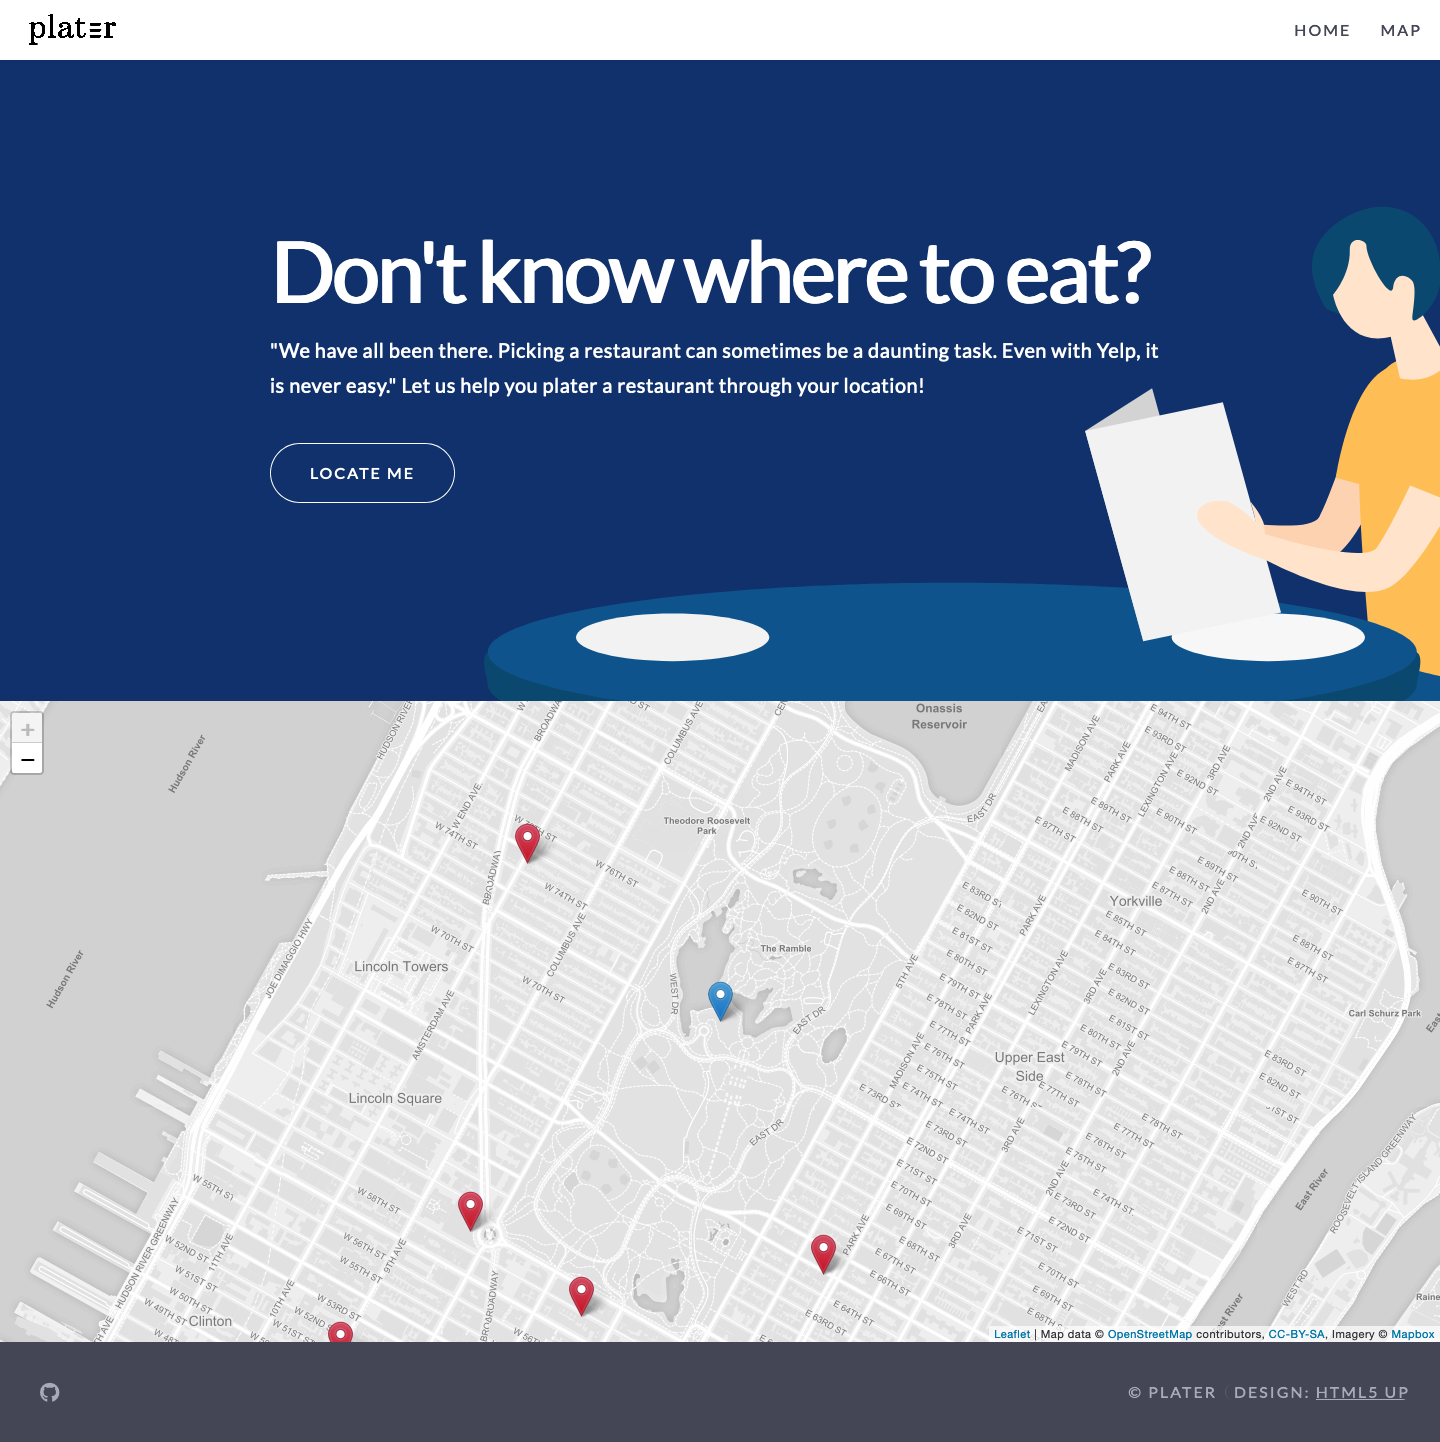
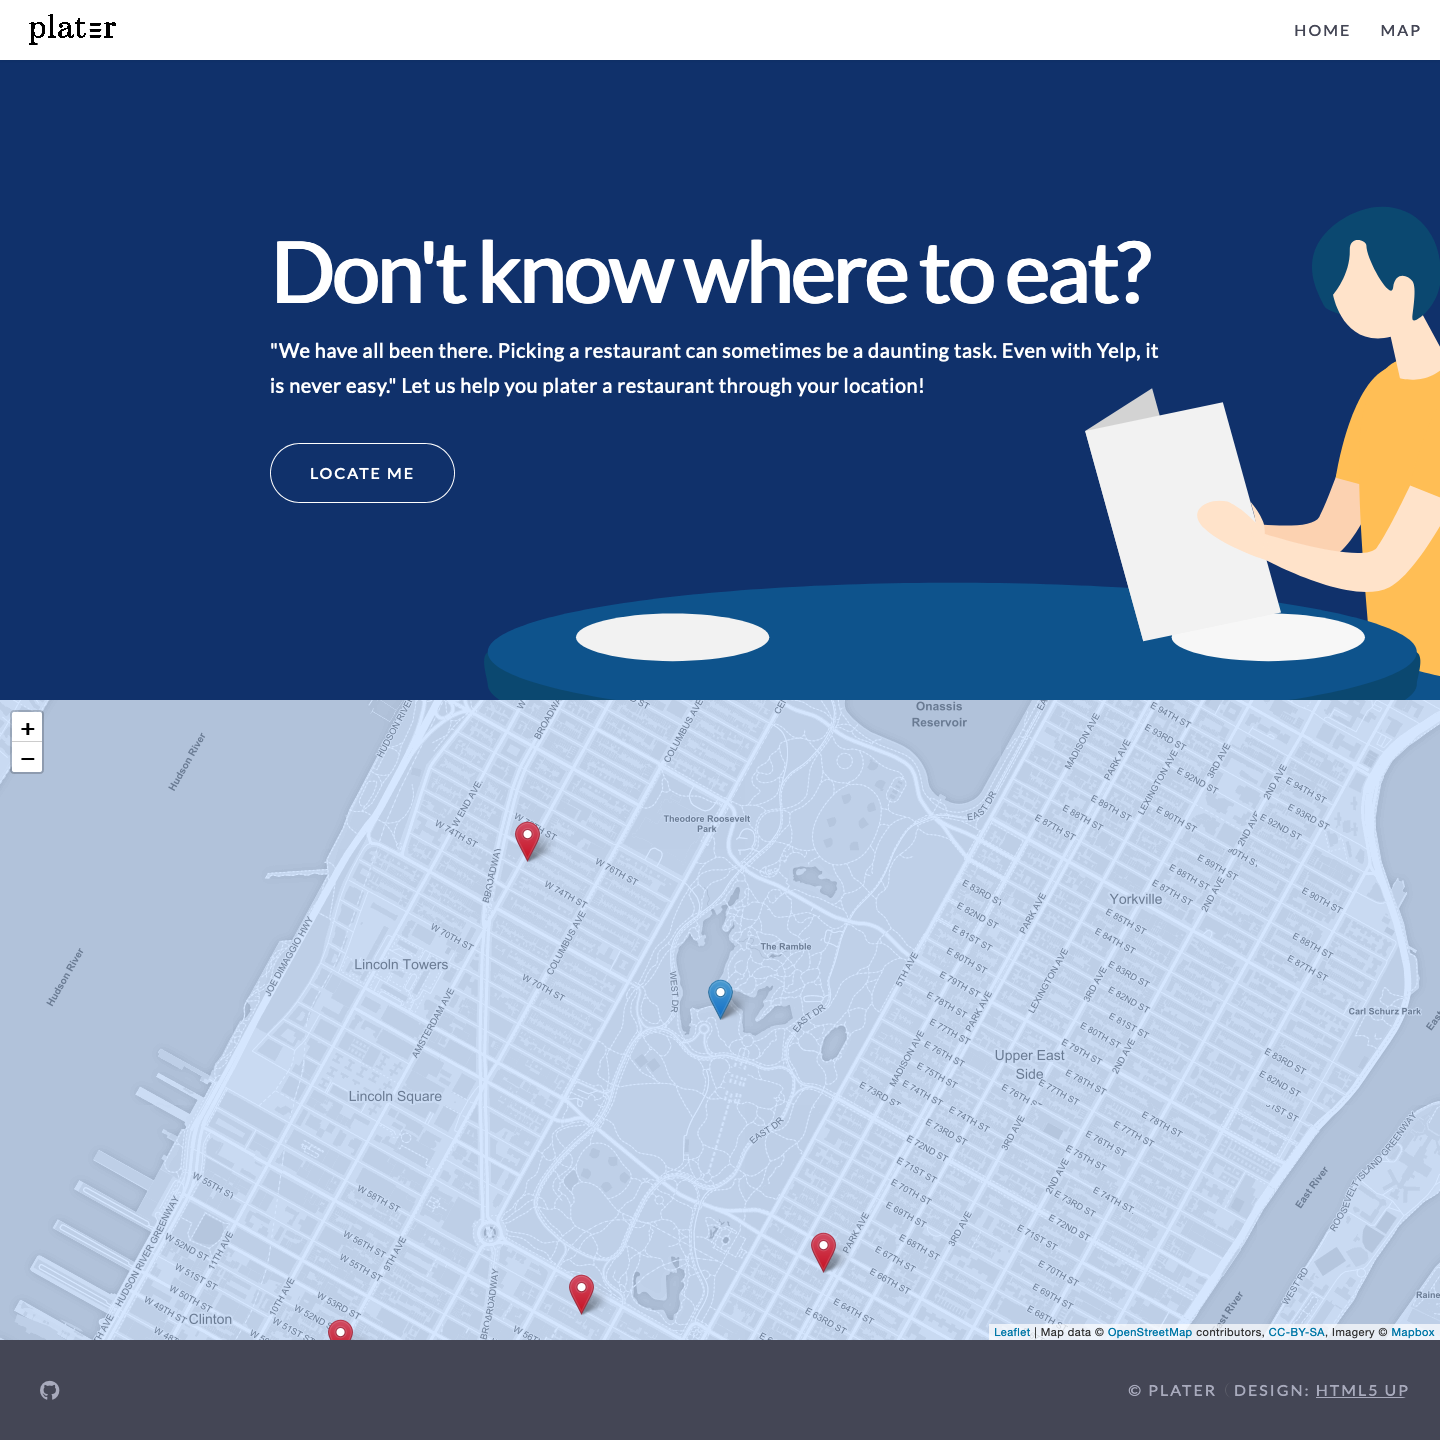
Map enables more zoom-ins and features a radius on map
product picture has been updated to relfect these changes

diff --git a/assets/js/map.js b/assets/js/map.js
@@ -1,3 +1,22 @@
+function haversine(lat1, lng1, lat2, lng2) {
+    var R = 6371000; // Radius of the earth in m
+    var dLat = (lat2-lat1).toRad();  // Javascript functions in radians
+    var dLon = (lng2-lng1).toRad(); 
+    var a = Math.sin(dLat/2) * Math.sin(dLat/2) +
+            Math.cos(lat1.toRad()) * Math.cos(lat2.toRad()) * 
+            Math.sin(dLon/2) * Math.sin(dLon/2); 
+    var c = 2 * Math.atan2(Math.sqrt(a), Math.sqrt(1-a)); 
+    var d = R * c; // Distance in m
+    return d;
+}
+  
+/** Converts numeric degrees to radians */
+if (typeof(Number.prototype.toRad) === "undefined") {
+    Number.prototype.toRad = function() {
+        return this * Math.PI / 180;
+    }
+}
+
 const YELP = '7zJt$*fZBj!7ZywLrCXaB&&q36f!5eN!LTn3&99@B3nfjMdb@Mc4@k*KZ*$8CeJwfZA29EjVyqB68XuQG&Jh6Js2TGcBm4S!K5TtxFjn4PzF6Z&tVhA%NWj^!zo34jiK@#Lz9NVF$*dy67eaqWSzdhe96wggjtw@znfC$EH3$uV2vS2H7#JBHHNt&%xrkBZTGg%3MMpM3!zNevK%*ejQac#JxnV@P87BwA9c5bO*u2pMzcvo&&L7&%%EPp3TuahU2hRS#Lh*nk5633H2_cHheL62V#EA2iggw*ef&fq4*Tc9*xLamx4yiBXWPzxyRKSWN!CW&QJit&%Ha9Dl763ZspHDWZc#xeU2#jAZG*LNx7z69bpxFmswyLtA483XtX!m9J@6SXgUf2jr2zzz3zSJ5GXg9@DwxSAf2L$Qtjo8%!yG$c7$jLUUhXxr1!%KhUr!Hy!S3RXNxPndax2XGfdQpmuFD4A&Uv@kfk3f!6R%bsXqECb!Xm@2Nxtc5mWLec%ZPKuRZfjy5*Gi-R^UDDGaVPud&iGxr3Q^ez$#chUtNmF5swGwAK$a$%B$tYV5%Yi%6hTQxqM9obXz%dq5mWJfn!3PbKkZX!UQH7B$s9u@R9PF#TUEJhUN5WxY2B&go#JkVH7ap%jrwaR5s2zb!k^fi^TJwj7$NcsS&anq$qcoUduR$VgmW4KwZU%2d3iZonqUWL79FushxxgD&cHz^#i5FQPBgs@T233#7NH2qB69JmaoEaHEsi*tyevq^r4#9qy7Kg3Q2myPPnA&jKi&*D7Nvrz6FJbezOx&G7iMumSq^ivacTZ*4f68sPuwyQR!waVpau9GA#u3REJsQ64geqBYdVV!pK!fuAh#g4yxzeYGmGR#n*Ga%8SRf%7p7Vqx6yY2cgPT9$x6wDm6wFY2Aa*2pyP%aU4HmB6cPBs&ixTVNyAL!q2$ZxocnG@4C&c9!Dqi*F@QGqxH%zW5gLbN*!NY7D$Znrn^r^gW$uS2K8CYgcqc!oxbk8Xv^$UehAjj#HjeVuLW0%dRw&#5FB%RPsRVTRW2j_a^J*RfUY7ymKp5fknMLDKZKY%UaUAePL9J#XnKAK@Dq9KKFeG32JnbzhJ$cE*VU$dM&QgB79vw*@L2Uv5kB3^N3LxtfCXx2L%jy&k2nZK%4qX@QFk6PgkRdQRqaEBpo9$qRNkpczr9roc&MS3ar^y*DGYVt38uedhNZQh^^RXCTmL4haE&x%or2Hx5FZe6ZYw$cJ8#F@aq8&d3PG#jLpD3aGnwW5%TQ%hw^X6Rto39@ygQ!Kc39SwE@W4mqik9LpHr!rXU&B$84NjNHEhSxc7cYwax5fu!2zPEK8fInSs*rrh4RqNW!7fU3KBaC*5H$PQUEBbEkg3diZh#kUkB43F^wfbmhP7L4pA&U&xM^8nzcHfT4tWPgHj35v&2@zLq&i@XBdx#!rdwnUW9fMK25Z8tTxLRMit84%e^5B9&Qf9PbU!3t#%^r2iSCPpYC*UA8nq48apzd%#gj&Gh@w8#Dqy^YHz2isF!xvFM9X$!N2EfmS*ATiSSdsK%JO8Q@q86hi!^cLv^X4Xmn&OCMN^QhaSUptVH&j92&nMKYT!GzKjx^Ejyj!DAzZ32TJe&3u3GH@8iPe*veYcTjMNb6JCx4!*GULx9%z*g46s$cm%ej35xSVKr&U%zBxc_a%EuzYvuw7pQqC8cUx$!6RyQ2*7AAHL!pExmSnP%6iUgAB67NJ#^NeC&#J2RZPfv!*q8sZ8$rsK*AMz$3qh9juzkiLR*5Si37g8HBM&&u4o8WMM@R5bq6&qsiSjkb3B^5@8at@i%6*K7Nj@FJabg8eGLivG6r*wWma7vdKkKinUtbH@b2K5QVAG3NgXMJ#j$oWcCG!gxeK7&44gX5gWWh5K4RNr2&!&LEy^8xakFMft@qhyef^7wjs*6EggUDRLY@FZ@A8$r*9D4M^pgpq5vUBPuoxmNKL$LhfS2dPXQ4qDtP#8eZjmdMGbnyhnW$Xm97UwJNrTD!2uyHHpTk7@kFWfsq#@kbouago3G53xzrrkF@NDGz%HE25r89CFQ7@7a$RJ3FV5%DfwYXboU3mkGP$FC%9Kwfz5x8T$0MYfYnjze2Bw6GK&v^gkvlM55oHnsz5$b@kYY#JzNfwCof6k9@DVajzSt#RpK^x4s8PDNFJbv*aZ*z4c6!#8na@m2fchdgB4n9*nRnynMEoAsp8hhfZod2xJH^qg@WxFN*ALL%ZTgt9@4xmRKuinodV79@$RgFZf&XY3PzN*SbW$tAYhWK^u%cQ97@R!qKDPKQ84dDYeDp9HFqk24@DP%8Rw4j2SWspdiE!jHNAzeYH6DLdY#w$*!dxfjFsjze5#NNBsV!CdVp54Tn%hfv5X*#iF@*RAHEE@zV#cs7MqaMfFtDHE@qSnh9oFqX%rS6CPnWbJuZ@t9izM3M591*u!AW3j5QKjtULFNx*uRl!GQmckW@8%3Nx5rhJXN!YA#7&v^YQTpc$kb$n#d9MwMNDo5TuAZkp#%vt4ePvBZ!iRTdJhnRSXY6bCqh&T4wjjrqPyRKqK!2@@p8giwWR*6e9JLs3JhhY*x@TiY$fVkdLqXro9qC35Nuy^$T7VPSf&xEdtQa8xG4kjzwegvXzM8w28E%TMf9h^fzU$crni7o%dQajfnAmv9nBFqy!YpM8aACyae3GiDF^L&4X3x'; 
 var key = ""; for (var i = 20; i < YELP.length; i=i+21) key += YELP.charAt(i);
 
@@ -8,6 +27,13 @@ var map = L.map('map', {
     inertiaDeceleration: 2000  
 });
 
+L.tileLayer('https://api.tiles.mapbox.com/v4/{id}/{z}/{x}/{y}.png?access_token={accessToken}', {
+    attribution: 'Map data &copy; <a href="http://openstreetmap.org">OpenStreetMap</a> contributors, <a href="http://creativecommons.org/licenses/by-sa/2.0/">CC-BY-SA</a>, Imagery © <a href="https://mapbox.com">Mapbox</a>',
+    maxZoom: 18,
+    id: 'superpikar.n28afi10',
+    accessToken: 'pk.eyJ1Ijoic3VwZXJwaWthciIsImEiOiI0MGE3NGQ2OWNkMzkyMzFlMzE4OWU5Yjk0ZmYzMGMwOCJ9.3bGFHjoSXB8yVA3KeQoOIw'
+}).addTo(map);
+
 var redIcon = new L.Icon({
     iconUrl: 'https://cdn.rawgit.com/pointhi/leaflet-color-markers/master/img/marker-icon-2x-red.png',
     shadowUrl: 'https://cdnjs.cloudflare.com/ajax/libs/leaflet/0.7.7/images/marker-shadow.png',
@@ -15,14 +41,14 @@ var redIcon = new L.Icon({
     iconAnchor: [12, 41],
     popupAnchor: [1, -34],
     shadowSize: [41, 41]
-  });
+});
 
 var markerGroup = L.layerGroup().addTo(map);
 
 function yelp_call(lat, lng) {
     markerGroup.clearLayers();
     L.marker([lat, lng]).addTo(markerGroup);
-
+    
     var yelp_query = {
         "url": `https://cors-anywhere.herokuapp.com/https://api.yelp.com/v3/businesses/search?term=restaurant&latitude=${lat}&longitude=${lng}&sort_by=rating`,
         "method": "GET",
@@ -30,11 +56,22 @@ function yelp_call(lat, lng) {
         "headers": {
             "Authorization": `Bearer ${key}`
         },
+        success: function (response) {   // find radius of furthest marker
+            var radius = -1;
+            response.businesses.forEach(function (business) {
+                var distance = haversine(response.region.center.latitude, response.region.center.longitude, business.coordinates.latitude, business.coordinates.longitude);
+
+                if (distance > radius) {
+                    radius = distance;
+                }
+            });
+
+            L.circle([response.region.center.latitude, response.region.center.longitude], radius+250).addTo(map);
+        }
     };
 
     $.ajax(yelp_query).done(function (response) {
         var businesses = response.businesses;
-        console.log(businesses);
         businesses.forEach(function (business) {
             var content = `<h3><a href="${business.url}">${business.name}</a></h3>` +
                         `<p style="margin: 0px; display: inline-block; color: #2b273c;">${business.rating} stars</p>` +
@@ -45,23 +82,17 @@ function yelp_call(lat, lng) {
                         `<p style="margin: 0px; color: #777777;">${business.display_phone}</p>` +
                         `<p style="margin: 0px; color: #777777;">${business.location.address1}</p>`
             ;
+
             L.marker([business.coordinates.latitude, business.coordinates.longitude], {icon: redIcon}).addTo(markerGroup).bindPopup(content);
         });
     });
 }
 
-map.setView([40.775,-73.972], 15);
+map.setView([40.775, -73.972], 15);
 yelp_call(40.775, -73.972);
 
-L.tileLayer('https://api.tiles.mapbox.com/v4/{id}/{z}/{x}/{y}.png?access_token={accessToken}', {
-    attribution: 'Map data &copy; <a href="http://openstreetmap.org">OpenStreetMap</a> contributors, <a href="http://creativecommons.org/licenses/by-sa/2.0/">CC-BY-SA</a>, Imagery © <a href="https://mapbox.com">Mapbox</a>',
-    maxZoom: 15,
-    id: 'superpikar.n28afi10',
-    accessToken: 'pk.eyJ1Ijoic3VwZXJwaWthciIsImEiOiI0MGE3NGQ2OWNkMzkyMzFlMzE4OWU5Yjk0ZmYzMGMwOCJ9.3bGFHjoSXB8yVA3KeQoOIw'
-}).addTo(map);
-
 $('#locate-position').on('click', function(){
-    map.locate({setView: true, maxZoom: 15});
+    map.locate({setView: true, maxZoom: 18});
 });
   
 function onLocationFound(e) {

diff --git a/assets/js/main.js b/assets/js/main.js
@@ -5,7 +5,6 @@
 */
 
 (function($) {
-
 	var	$window = $(window),
 		$body = $('body'),
 		$header = $('#header'),
